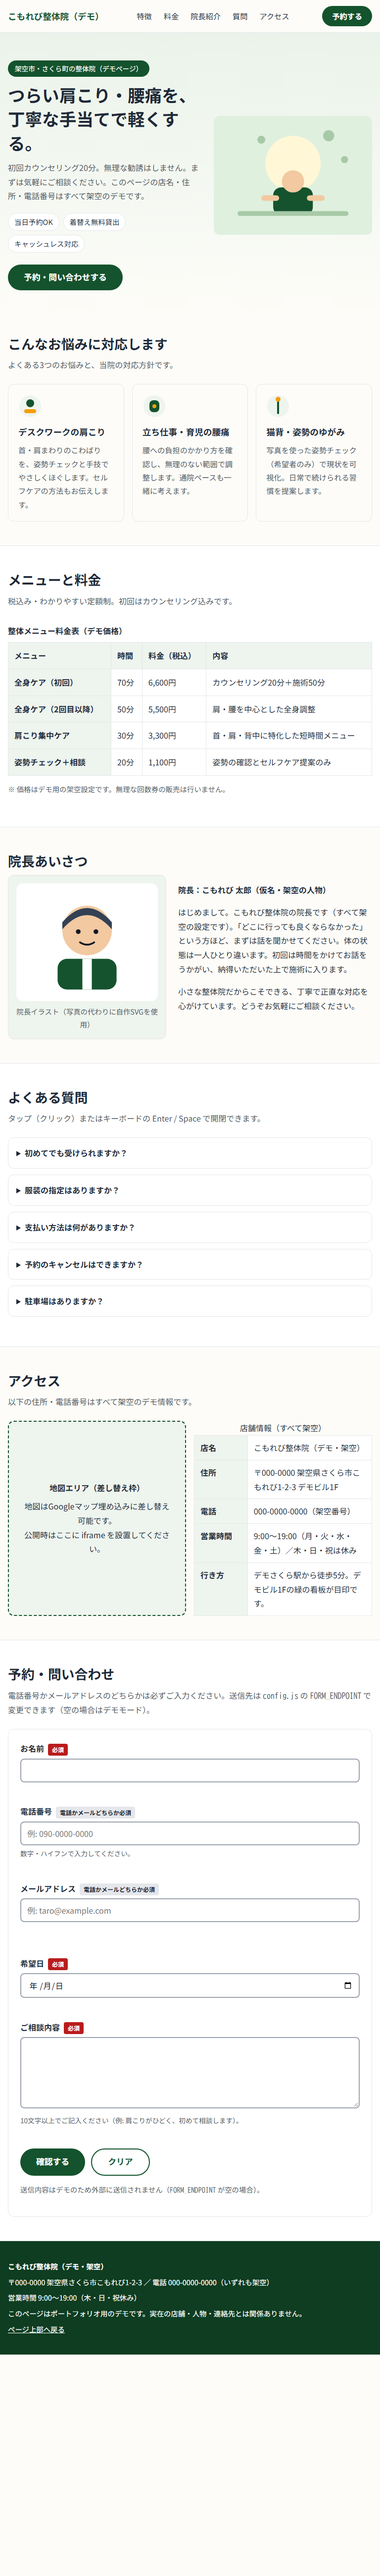
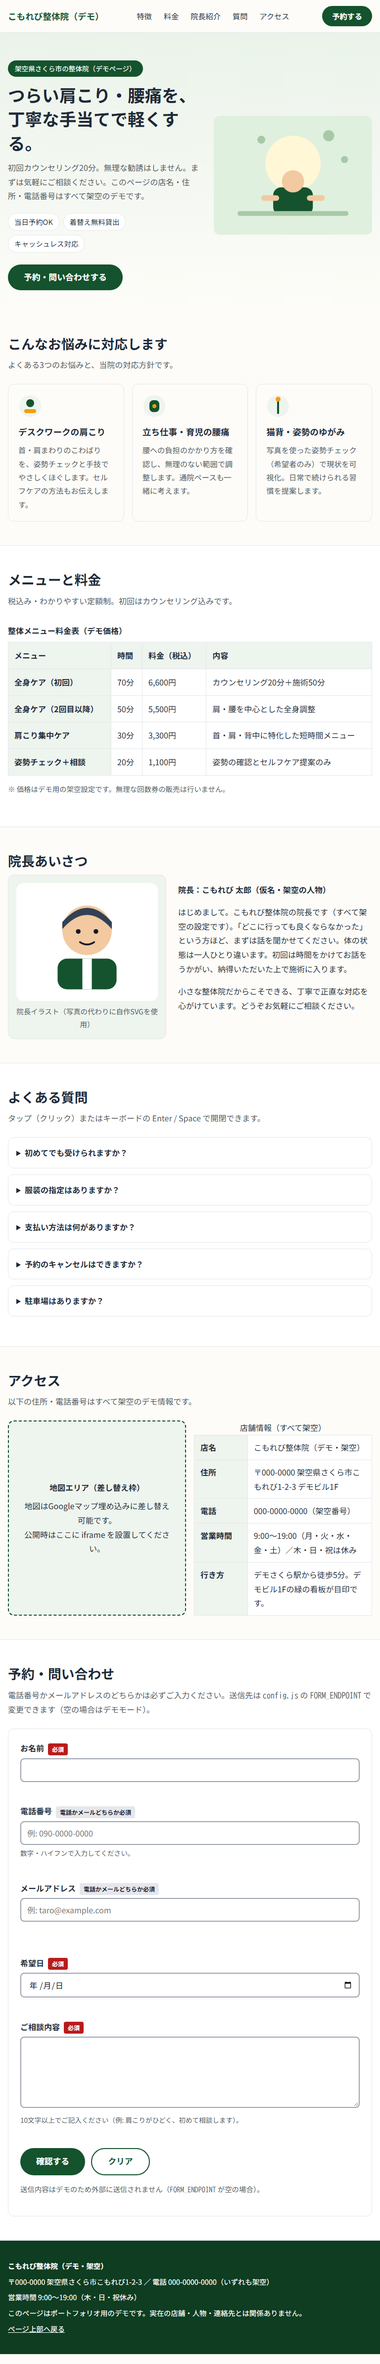
fix: keep completion message after reset, drop demo promise, unify place name, remove form method/action, refresh screenshots

diff --git a/js/main.test.js b/js/main.test.js
@@ -1,0 +1,94 @@
+/**
+ * js/main.test.js
+ * main.js の送信成功後メッセージのテスト。DOM は最小のスタブで代用し、
+ * main.js を vm で実行する（ブラウザ実機の確認は別途README参照）。
+ */
+import test from "node:test";
+import assert from "node:assert/strict";
+import fs from "node:fs";
+import vm from "node:vm";
+import "./validate.js";
+
+const source = fs.readFileSync(new URL("./main.js", import.meta.url), "utf8");
+
+function makeEl() {
+  const listeners = {};
+  const attrs = {};
+  return {
+    hidden: false,
+    disabled: false,
+    textContent: "",
+    innerHTML: "",
+    value: "",
+    type: "text",
+    listeners,
+    addEventListener(t, fn) { (listeners[t] ||= []).push(fn); },
+    setAttribute(k, v) { attrs[k] = v; },
+    removeAttribute(k) { delete attrs[k]; },
+    scrollIntoView() {},
+    focus() {},
+    querySelector() { return null; },
+    async fire(t) { for (const fn of listeners[t] || []) await fn({ preventDefault() {} }); },
+  };
+}
+
+function setup(endpoint, fetchImpl) {
+  const els = {};
+  for (const id of [
+    "reserve-form", "form-status", "form-confirm", "confirm-list", "confirm-back",
+    "confirm-send", "field-name", "field-phone", "field-email", "field-date", "field-message",
+  ]) els[id] = makeEl();
+  const values = { name: "山田 太郎", phone: "", email: "a@example.com", date: "2999-01-01", message: "肩こりと腰痛について相談したいです" };
+  els["reserve-form"].reset = () => { els["reserve-form"].fire("reset"); };
+  const sandbox = {
+    window: { AppValidate: globalThis.AppValidate, APP_CONFIG: { FORM_ENDPOINT: endpoint } },
+    document: { getElementById: (id) => els[id] || null },
+    FormData: class { get(k) { return values[k]; } },
+    fetch: fetchImpl,
+    setTimeout,
+    JSON,
+  };
+  vm.runInNewContext(source, sandbox);
+  return els;
+}
+
+const tick = () => new Promise((r) => setTimeout(r, 10));
+
+async function submitAndSend(els) {
+  await els["reserve-form"].fire("submit");
+  assert.equal(els["form-confirm"].hidden, false);
+  await els["confirm-send"].fire("click");
+  await tick();
+}
+
+test("デモモード: 送信完了メッセージがreset後も残り、確認連絡の約束をしない", async () => {
+  const els = setup("", async () => { throw new Error("呼ばれない"); });
+  await submitAndSend(els);
+  const msg = els["form-status"].textContent;
+  assert.match(msg, /送信が完了しました/);
+  assert.match(msg, /実際には送信していません/);
+  assert.doesNotMatch(msg, /ご連絡を差し上げます/);
+  assert.doesNotMatch(msg, /クリアしました/);
+});
+
+test("本番モード: 送信成功メッセージがreset後も残る", async () => {
+  const els = setup("https://example.invalid/form", async () => ({ ok: true, status: 200 }));
+  await submitAndSend(els);
+  assert.match(els["form-status"].textContent, /送信が完了しました/);
+  assert.doesNotMatch(els["form-status"].textContent, /クリアしました/);
+});
+
+test("通常のフォームクリアでは「入力をクリアしました。」が出る", async () => {
+  const els = setup("", async () => ({ ok: true }));
+  els["reserve-form"].reset();
+  await tick();
+  assert.equal(els["form-status"].textContent, "入力をクリアしました。");
+});
+
+test("送信成功後のクリアが次の手動クリアのメッセージを抑止しない", async () => {
+  const els = setup("", async () => ({ ok: true }));
+  await submitAndSend(els);
+  els["reserve-form"].reset();
+  await tick();
+  assert.equal(els["form-status"].textContent, "入力をクリアしました。");
+});

diff --git a/index.html b/index.html
@@ -3,12 +3,12 @@
 <head>
   <meta charset="utf-8">
   <meta name="viewport" content="width=device-width, initial-scale=1">
-  <title>こもれび整体院｜架空市の肩こり・腰痛ケア（デモLP）</title>
+  <title>こもれび整体院｜架空県さくら市の肩こり・腰痛ケア（デモLP）</title>
   <meta name="description" content="架空の地域整体院「こもれび整体院」のデモ用ランディングページ。肩こり・腰痛・姿勢のお悩みに、丁寧なカウンセリングと通いやすい料金で対応します（この店名・住所・電話番号はすべて架空です）。">
   <link rel="canonical" href="https://example.com/komorebi-seitaiin/">
   <meta property="og:type" content="website">
   <meta property="og:locale" content="ja_JP">
-  <meta property="og:title" content="こもれび整体院｜架空市の肩こり・腰痛ケア（デモLP）">
+  <meta property="og:title" content="こもれび整体院｜架空県さくら市の肩こり・腰痛ケア（デモLP）">
   <meta property="og:description" content="肩こり・腰痛・姿勢のお悩みに。丁寧なカウンセリングと通いやすい料金の整体院デモページ（架空情報）。">
   <meta property="og:url" content="https://example.com/komorebi-seitaiin/">
   <meta property="og:site_name" content="こもれび整体院（デモ）">
@@ -99,7 +99,7 @@
     <section class="hero" id="top" aria-labelledby="hero-title">
       <div class="container hero-grid">
         <div class="hero-copy">
-          <p class="eyebrow">架空市・さくら町の整体院（デモページ）</p>
+          <p class="eyebrow">架空県さくら市の整体院（デモページ）</p>
           <h1 id="hero-title">つらい肩こり・腰痛を、<br>丁寧な手当てで軽くする。</h1>
           <p>初回カウンセリング20分。無理な勧誘はしません。まずは気軽にご相談ください。このページの店名・住所・電話番号はすべて架空のデモです。</p>
           <ul class="hero-points">
@@ -299,7 +299,7 @@
       <div class="container">
         <h2 id="reserve-title">予約・問い合わせ</h2>
         <p class="section-lead">電話番号かメールアドレスのどちらかは必ずご入力ください。送信先は <code>config.js</code> の <code>FORM_ENDPOINT</code> で変更できます（空の場合はデモモード）。</p>
-        <form class="form" id="reserve-form" method="post" action="./" novalidate>
+        <form class="form" id="reserve-form" novalidate>
           <noscript>
             <p class="noscript-note">この予約フォームはデモであり、JavaScriptが有効な場合のみ確認・送信できます。JavaScriptが無効の場合は入力内容を送信しません。お急ぎの方はお電話でご連絡ください（番号は架空です）。</p>
           </noscript>

diff --git a/js/main.js b/js/main.js
@@ -15,6 +15,8 @@ const sendButton = document.getElementById("confirm-send");
 
 let pendingData = null;
 let confirming = false;
+// 送信成功後の form.reset() が完了メッセージを上書きしないためのフラグ
+let suppressResetMessage = false;
 
 function fieldInputs() {
   return [
@@ -182,7 +184,11 @@ form.addEventListener("reset", () => {
     discardConfirm("");
     setDateMin();
     showErrors({ name: "", phone: "", email: "", contact: "", date: "", message: "" });
-    statusEl.textContent = "入力をクリアしました。";
+    if (suppressResetMessage) {
+      suppressResetMessage = false;
+    } else {
+      statusEl.textContent = "入力をクリアしました。";
+    }
   }, 0);
 });
 
@@ -212,11 +218,12 @@ sendButton.addEventListener("click", async () => {
   // デモモード: 送信せず完了表示
   if (!endpoint) {
     statusEl.textContent =
-      "送信が完了しました（デモモードのため実際には送信していません）。確認のご連絡を差し上げます。";
+      "送信が完了しました（デモモードのため実際には送信していません）。";
     confirming = false;
     pendingData = null;
     confirmEl.hidden = true;
     setInputsReadOnly(false);
+    suppressResetMessage = true;
     form.reset();
     setDateMin();
     showErrors({ name: "", phone: "", email: "", contact: "", date: "", message: "" });
@@ -236,6 +243,7 @@ sendButton.addEventListener("click", async () => {
     pendingData = null;
     confirmEl.hidden = true;
     setInputsReadOnly(false);
+    suppressResetMessage = true;
     form.reset();
     setDateMin();
   } catch (err) {

diff --git a/README.md b/README.md
@@ -10,15 +10,15 @@
 ## スクリーンショット
 
 撮影条件：Chrome headless・`--force-device-scale-factor=1`（DPR 1）。
-画像の実寸は 375x7000 / 768x5200 / 1280x5000 px です（`node` でPNGヘッダを読んで確認）。
+画像の実寸は 375x6608 / 768x4773 / 1280x4557 px です（`node` でPNGヘッダを読んで確認）。
 
-### 375px（スマホ・実寸 375x7000）
+### 375px（スマホ・実寸 375x6608）
 ![375px](docs/screenshots/375.png)
 
-### 768px（タブレット・実寸 768x5200）
+### 768px（タブレット・実寸 768x4773）
 ![768px](docs/screenshots/768.png)
 
-### 1280px（PC・実寸 1280x5000）
+### 1280px（PC・実寸 1280x4557）
 ![1280px](docs/screenshots/1280.png)
 
 ## フォルダ構成
@@ -32,6 +32,7 @@
 ├── js/
 │   ├── validate.js       # DOM非依存の入力チェック（ブラウザとNodeで共用）
 │   ├── validate.test.js  # node --test 用テスト（32件）
+│   ├── main.test.js      # main.js の送信完了メッセージのテスト（DOMスタブ・4件）
 │   └── main.js           # フォーム表示制御（確認画面・送信・エラー表示）
 ├── docs/
 │   └── screenshots/      # 375 / 768 / 1280px のスクリーンショット
@@ -47,7 +48,7 @@
 
 ```sh
 npm install   # html-validate を使う場合のみ
-npm test      # 入力チェックのテスト（32件）
+npm test      # 入力チェック32件＋送信完了メッセージ4件＝計36件
 npx html-validate index.html  # HTML検証（エラー0を確認済み）
 ```
 
@@ -73,19 +74,20 @@ chrome --headless=new --disable-gpu --force-device-scale-factor=1 \
 
 ## テストの結果
 
-- `npm test`（`node --test js/validate.test.js`）：**32件すべて通過**
+- `npm test`（`node --test js/validate.test.js js/main.test.js`）：**36件すべて通過**（validate 32件＋main 4件。main のテストは最小のDOMスタブで main.js を実行するもので、実ブラウザでの確認は下記とは別）
+
   （名前4・メール4・電話5・連絡先4・希望日9・内容4・全体2）。
   希望日はローカル暦日比較に統一し、0時台・23時台の境界テスト3件を追加した。
 - `npx html-validate index.html`：**エラー0**（終了コード0）。
 - 実ブラウザ（Chrome headless・CDP）での動作確認：空送信→各欄エラー表示、
   不正メール・過去日→形式エラー表示、正常入力→確認画面→デモモード完了表示、
   FAQ開閉。コンソールエラーなし。
-- スクリーンショット実寸（DPR 1）：375x7000 / 768x5200 / 1280x5000 px。
+- スクリーンショット実寸（DPR 1）：375x6608 / 768x4773 / 1280x4557 px（ページ実高さに合わせて2026-10-05に撮り直し）。
 
 ## 確認したこと
 
 - 375 / 768 / 1280px のスクリーンショットを目視し、はみ出し・重なり・横スクロールがないことを確認
-- スマホ幅（767px以下）で画面下に固定の「予約する」ボタが表示されること
+- スマホ幅（767px以下）で画面下に固定の「予約する」ボタンが表示されること
 - 料金表はスマホ幅で横スクロール可能な枠内に収まること
 - `FORM_ENDPOINT` が空のとき送信せず確認画面＋完了メッセージになること
 - `details` によるFAQがマウス・キーボード（Enter/Space）で開閉できること
@@ -98,7 +100,7 @@ chrome --headless=new --disable-gpu --force-device-scale-factor=1 \
 - 過去日判定をブラウザのローカル暦日（年・月・日）に統一し、`main.js` と同じ基準にした。境界テスト3件を追加（32件化）。
 - JS無効時の個人情報漏えい対策：`form method="post"`＋デモ用空actionをやめ、JSなしでは送信ボタンを出さず `<noscript>` 案内にする。
 - アクセシビリティ：料金表ラッパーに `tabindex="0"`・`role="region"`・`aria-label`、共通エラー `error-contact` を電話・メール両方の `aria-describedby` に含める、フォーカスリングを3:1以上の二重リングに。
-- スクリーンショットを DPR=1（`--force-device-scale-factor=1`）で撮り直し、実寸 375x7000 / 768x5200 / 1280x5000 を確認して記載した。
+- スクリーンショットを DPR=1（`--force-device-scale-factor=1`）で撮り直し、実寸 375x6608 / 768x4773 / 1280x4557 を確認して記載した。
 - READMEに実行コマンド・撮影条件（DPR・実寸）・未確認事項を明記した。
 
 ## できていないこと（正直に・未確認は未確認と書く）
@@ -113,7 +115,7 @@ chrome --headless=new --disable-gpu --force-device-scale-factor=1 \
   `window.AppValidate` 経由で共有している（Node テストでは ESM として副作用import）。
   将来 HTTP 配信が前提になるなら ESM の `export` 形式に戻す余地がある。
 - スクリーンショット撮影用の一時スクリプトは削除済み（再撮影時は上記コマンド参照）。
-  フルページ高さ（7000 / 5200 / 5000px）のため、実機スクロール時の追従挙動は**未確認**。
+  フルページ高さ（6608 / 4773 / 4557px）のため、実機スクロール時の追従挙動は**未確認**。
 
 ## ライセンス
 
